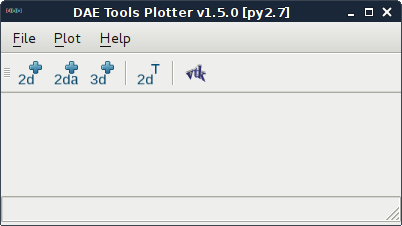
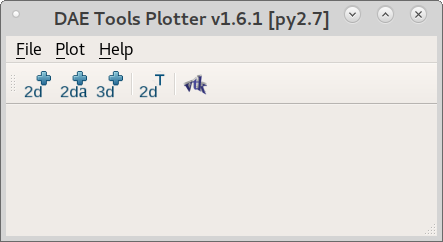
Some updates for 1.6.1
git-svn-id: svn://svn.code.sf.net/p/daetools/code@703 e944343b-51ee-4bc0-bd0d-d7880edd40ba

Changed region(s): [[0.0, 0.0, 1.0, 1.0]]

diff --git a/trunk/daetools-package/daetools/examples/tutorial9.py b/trunk/daetools-package/daetools/examples/tutorial9.py
@@ -152,8 +152,7 @@ def consoleRun():
 
     # Import desired solver module (uncomment it from below) and set it using SetLASolver function:
     #print("Supported Trilinos 3rd party LA solvers:", str(pyTrilinos.daeTrilinosSupportedSolvers()))
-    #lasolver     = pyTrilinos.daeCreateTrilinosSolver("Amesos_Klu", "")
-    lasolver     = pyTrilinos.daeCreateTrilinosSolver("Amesos_Superlu", "")
+    lasolver     = pyTrilinos.daeCreateTrilinosSolver("Amesos_Klu", "")
     #lasolver     = pyTrilinos.daeCreateTrilinosSolver("Amesos_Lapack", "")
     #lasolver     = pyTrilinos.daeCreateTrilinosSolver("Amesos_Umfpack", "")
     #lasolver     = pyIntelPardiso.daeCreateIntelPardisoSolver()

diff --git a/trunk/daetools-package/daetools/examples/tutorial11.py b/trunk/daetools-package/daetools/examples/tutorial11.py
@@ -358,9 +358,6 @@ def consoleRun():
     simulation.m.SaveModelReport(simulation.m.Name + ".xml")
     simulation.m.SaveRuntimeModelReport(simulation.m.Name + "-rt.xml")
 
-    #fileName = '/home/ciroki/' + simulation.m.Name + '.xpm'
-    #lasolver.SaveAsXPM(str(fileName))
-
     # Solve at time=0 (initialization)
     simulation.SolveInitial()
 

diff --git a/trunk/daetools-package/daetools/docs/getting_daetools.rst b/trunk/daetools-package/daetools/docs/getting_daetools.rst
@@ -25,11 +25,11 @@ The software works on both python 2 and 3. The binaries are provided for 2.7, 3.
 
 Mandatory packages:
 
-* Python (2.7, 3.4\ :sup:`+`): `<http://www.python.org>`_
+* Python (2.7, 3.4, 3.5 or 3.6): `<http://www.python.org>`_
 * Numpy (1.8\ :sup:`+`): `<http://www.numpy.org>`_
 * Scipy (0.14\ :sup:`+`): `<http://www.scipy.org>`_
 * Matplotlib (1.4\ :sup:`+`): `<http://matplotlib.sourceforge.net>`_
-* pyQt5: `<http://www.riverbankcomputing.co.uk/software/pyqt>`_
+* pyQt4 or pyQt5: `<http://www.riverbankcomputing.co.uk/software/pyqt>`_
 * mayavi2
 * python-lxml
 
@@ -68,16 +68,16 @@ or from the `SourceForge <https://sourceforge.net/projects/daetools/files>`_ web
     From the version 1.6.0 Windows installer is not provided anymore.
 
 The naming convention for the installation files: ``daetools-major.minor.platform-architecture.tar.gz``
-where ``major.minor.build`` represents the version (``1.6.0`` for instance),
+where ``major.minor.build`` represents the version (``1.6.1`` for instance),
 ``platform`` can be ``gnu_linux``, ``win32`` and ``macosx``, and
 ``architecture`` can be ``i686``, ``x86_64`` or ``universal``.
 
-An example: ``daetools-1.6.0-gnu_linux-x86_64.tar.gz`` is the version 1.6.0 for 64 bit GNU/Linux.
+An example: ``daetools-1.6.1-gnu_linux-x86_64.tar.gz`` is the version 1.6.1 for 64 bit GNU/Linux.
 
 For other platforms, architectures and python versions not listed in `System requirements`_
 daetools must be compiled from the source.
 The source code can be downloaded either from the subversion tree or from the download section
-(``daetools-1.6.0-source.tar.gz`` for instance).
+(``daetools-1.6.1-source.tar.gz`` for instance).
 
 Installation
 ============
@@ -94,6 +94,7 @@ Use the system's Python
 
   .. code-block:: bash
 
+     # DAE Tools v1.6.1 requires PyQt5 (older versions use PyQt4: python-qt4)
      sudo apt-get install python-numpy python-scipy python-matplotlib python-qt5 mayavi2 python-lxml
      # Optional packages:
      sudo apt-get install python-xlwt python-h5py python-pandas
@@ -102,6 +103,7 @@ Use the system's Python
 
   .. code-block:: bash
 
+     # DAE Tools v1.6.1 requires PyQt5 (older versions use PyQt4)
      sudo yum install numpy scipy python-matplotlib PyQt5 Mayavi python-lxml
      # Optional packages:
      sudo yum install python-xlwt h5py python-pandas
@@ -110,6 +112,7 @@ Use the system's Python
 
   .. code-block:: bash
 
+     # DAE Tools v1.6.1 requires PyQt5 (older versions use PyQt4: python-qt4)
      sudo zypper in python-numpy python-scipy python-matplotlib python-qt5 python-lxml
      # Optional packages:
      sudo zypper in python-xlwt h5py python-pandas
@@ -119,11 +122,13 @@ Use the system's Python
   .. code-block:: bash
 
      # Python 2:
+     # DAE Tools v1.6.1 requires PyQt5 (older versions use PyQt4: python2-pyqt4)
      sudo pacman -S python2-numpy python2-scipy python2-matplotlib python2-pyqt5 mayavi python-lxml
      # Optional packages:
      sudo pacman -S python2-xlwt python-h5py python-pandas
 
      # Python 3:
+     # DAE Tools v1.6.1 requires PyQt5 (older versions use PyQt4: python-pyqt4)
      sudo pacman -S python-numpy python-scipy python-matplotlib python-pyqt5 mayavi python-lxml
      # Optional packages:
      sudo pacman -S python-xlwt python-h5py python-pandas
@@ -138,6 +143,7 @@ Install one of scientific python distributions
 
   .. code-block:: bash
 
+     # DAE Tools v1.6.1 requires PyQt5 (older versions use PyQt4: pyqt=4.11)
      conda install numpy scipy matplotlib pyqt lxml pandas h5py xlwt
 
 * `Enthought Canopy <https://www.enthought.com/products/canopy>`_
@@ -178,7 +184,8 @@ Install one of scientific python distributions
       
   .. code-block:: bash
 
-    conda install numpy scipy matplotlib pyqt lxml pandas h5py xlwt
+     # DAE Tools v1.6.1 requires PyQt5 (older versions use PyQt4: pyqt=4.11)
+     conda install numpy scipy matplotlib pyqt lxml pandas h5py xlwt
   
 * `Enthought Canopy <https://www.enthought.com/products/canopy>`_
 
@@ -192,7 +199,7 @@ As a starting point the following links can be used:
 * `NumPy <http://sourceforge.net/projects/numpy/files/NumPy>`_
 * `SciPy <http://sourceforge.net/projects/scipy/files/scipy>`_
 * `Matplotlib <http://sourceforge.net/projects/matplotlib/files/matplotlib>`_
-* `PyQt4 <http://www.riverbankcomputing.com/software/pyqt/download>`_
+* `PyQt4 or PyQt5 <http://www.riverbankcomputing.com/software/pyqt/download>`_
 
 Install DAE Tools
 +++++++++++++++++
@@ -224,6 +231,7 @@ The easiest way is to install one of available scientific python distributions:
 
   .. code-block:: bash
 
+     # DAE Tools v1.6.1 requires PyQt5 (older versions use PyQt4: pyqt=4.11)
      conda install numpy scipy matplotlib pyqt lxml pandas h5py xlwt
   
 * `Enthought Canopy <https://www.enthought.com/products/canopy>`_

diff --git a/trunk/daetools-package/daetools/docs/tutorials.rst b/trunk/daetools-package/daetools/docs/tutorials.rst
@@ -63,14 +63,14 @@ parameter estimation and optimal control tests.
 
 .. toctree::
    :numbered:
-   :maxdepth: 2 
+   :maxdepth: 2
 
    tutorials-basic
    tutorials-advanced
    tutorials-fe
    tutorials-optimisation
    tutorials-chemeng
-   tutorials-chemeng-optimisation 
+   tutorials-chemeng-optimisation
    #tutorials-all
 
 
